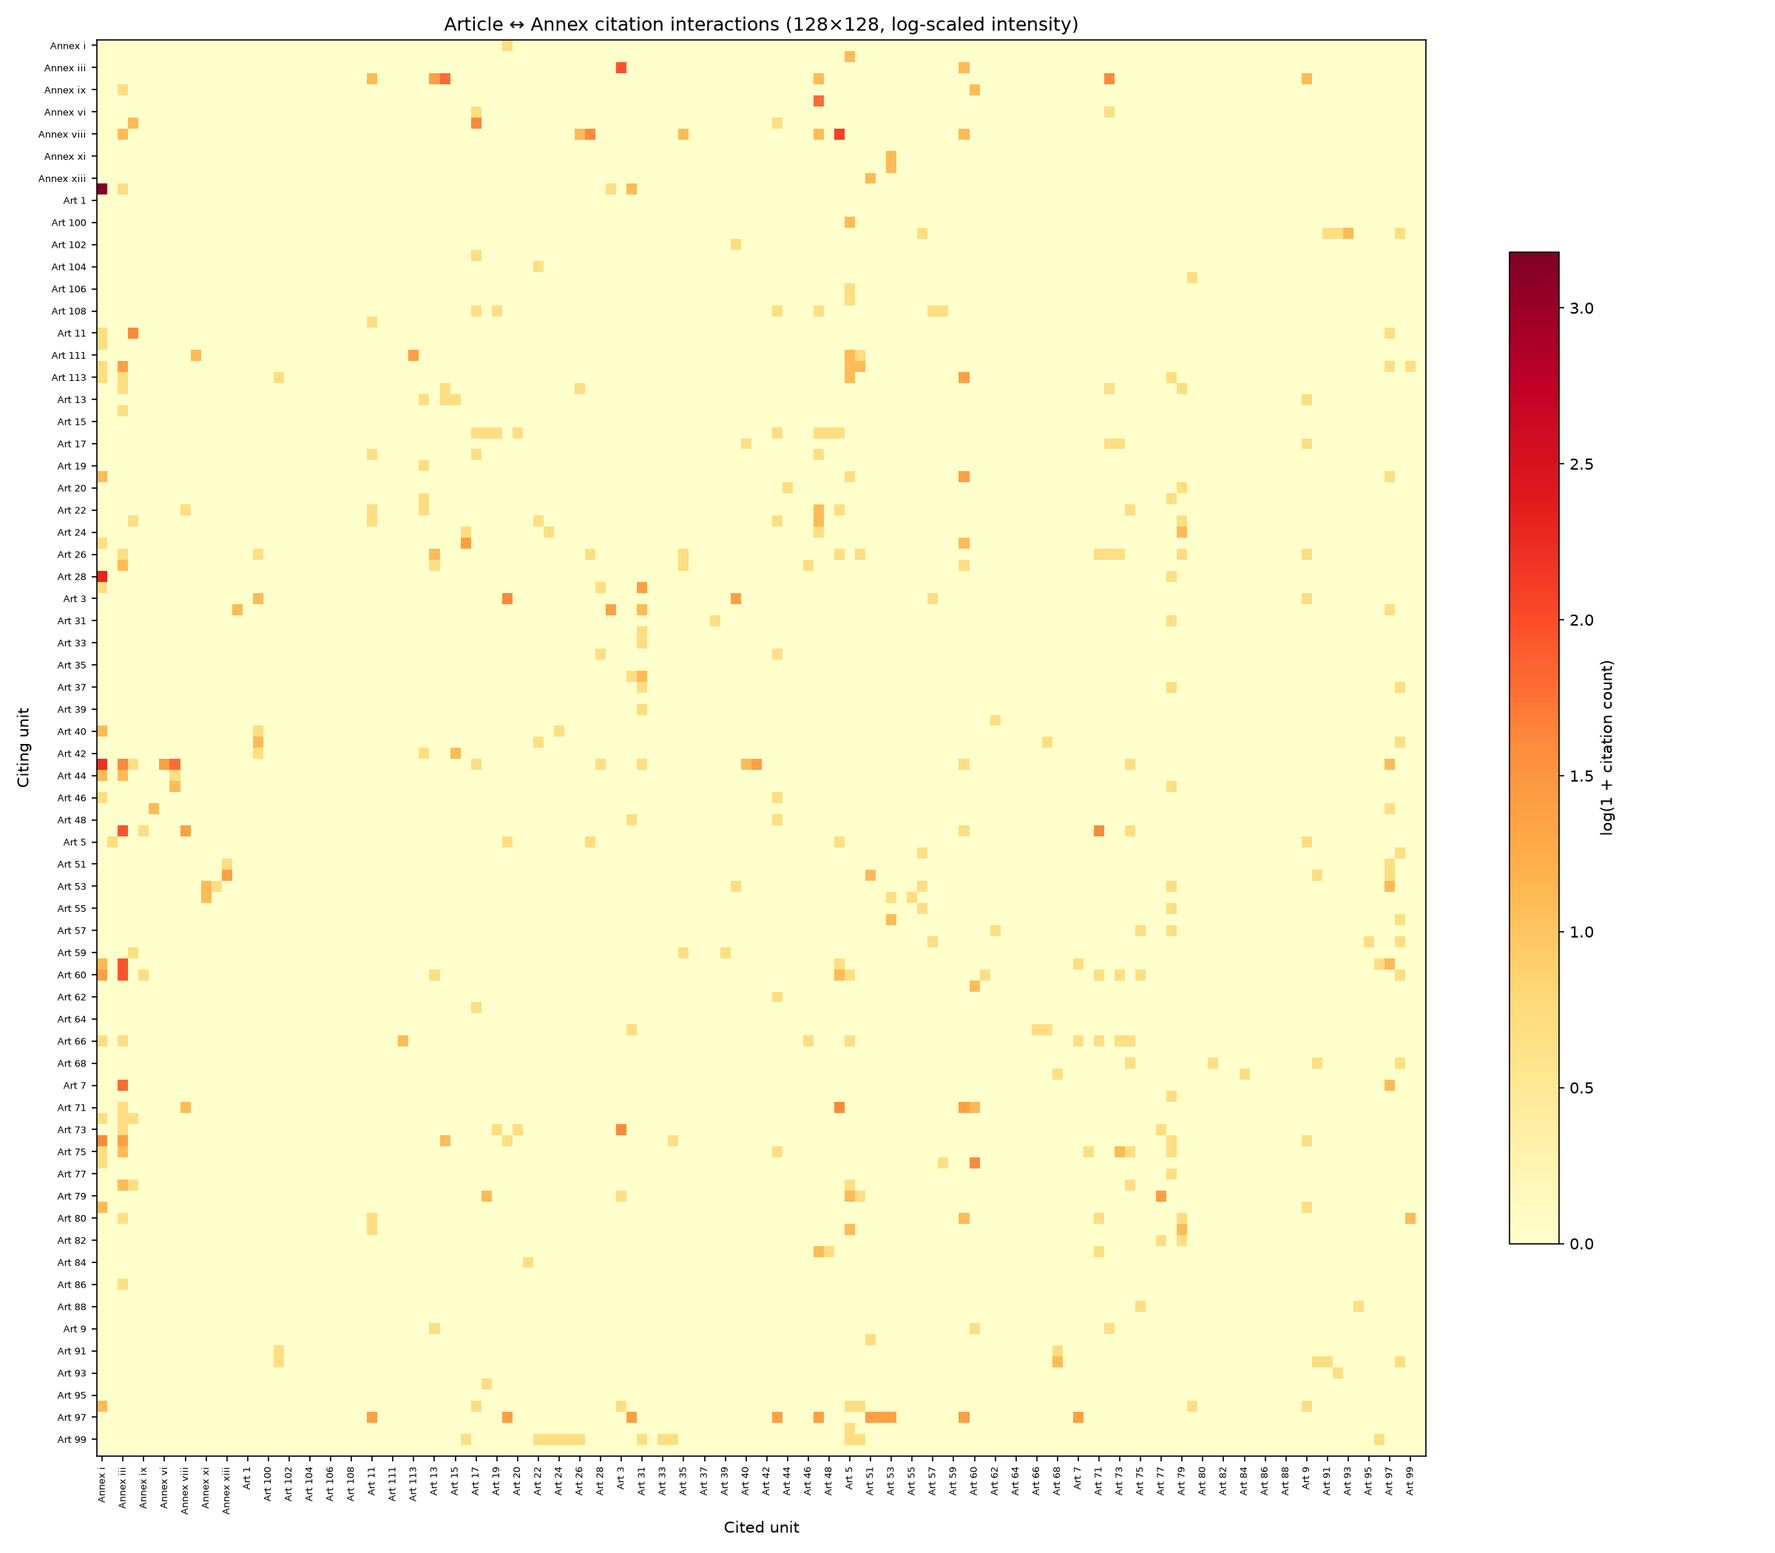
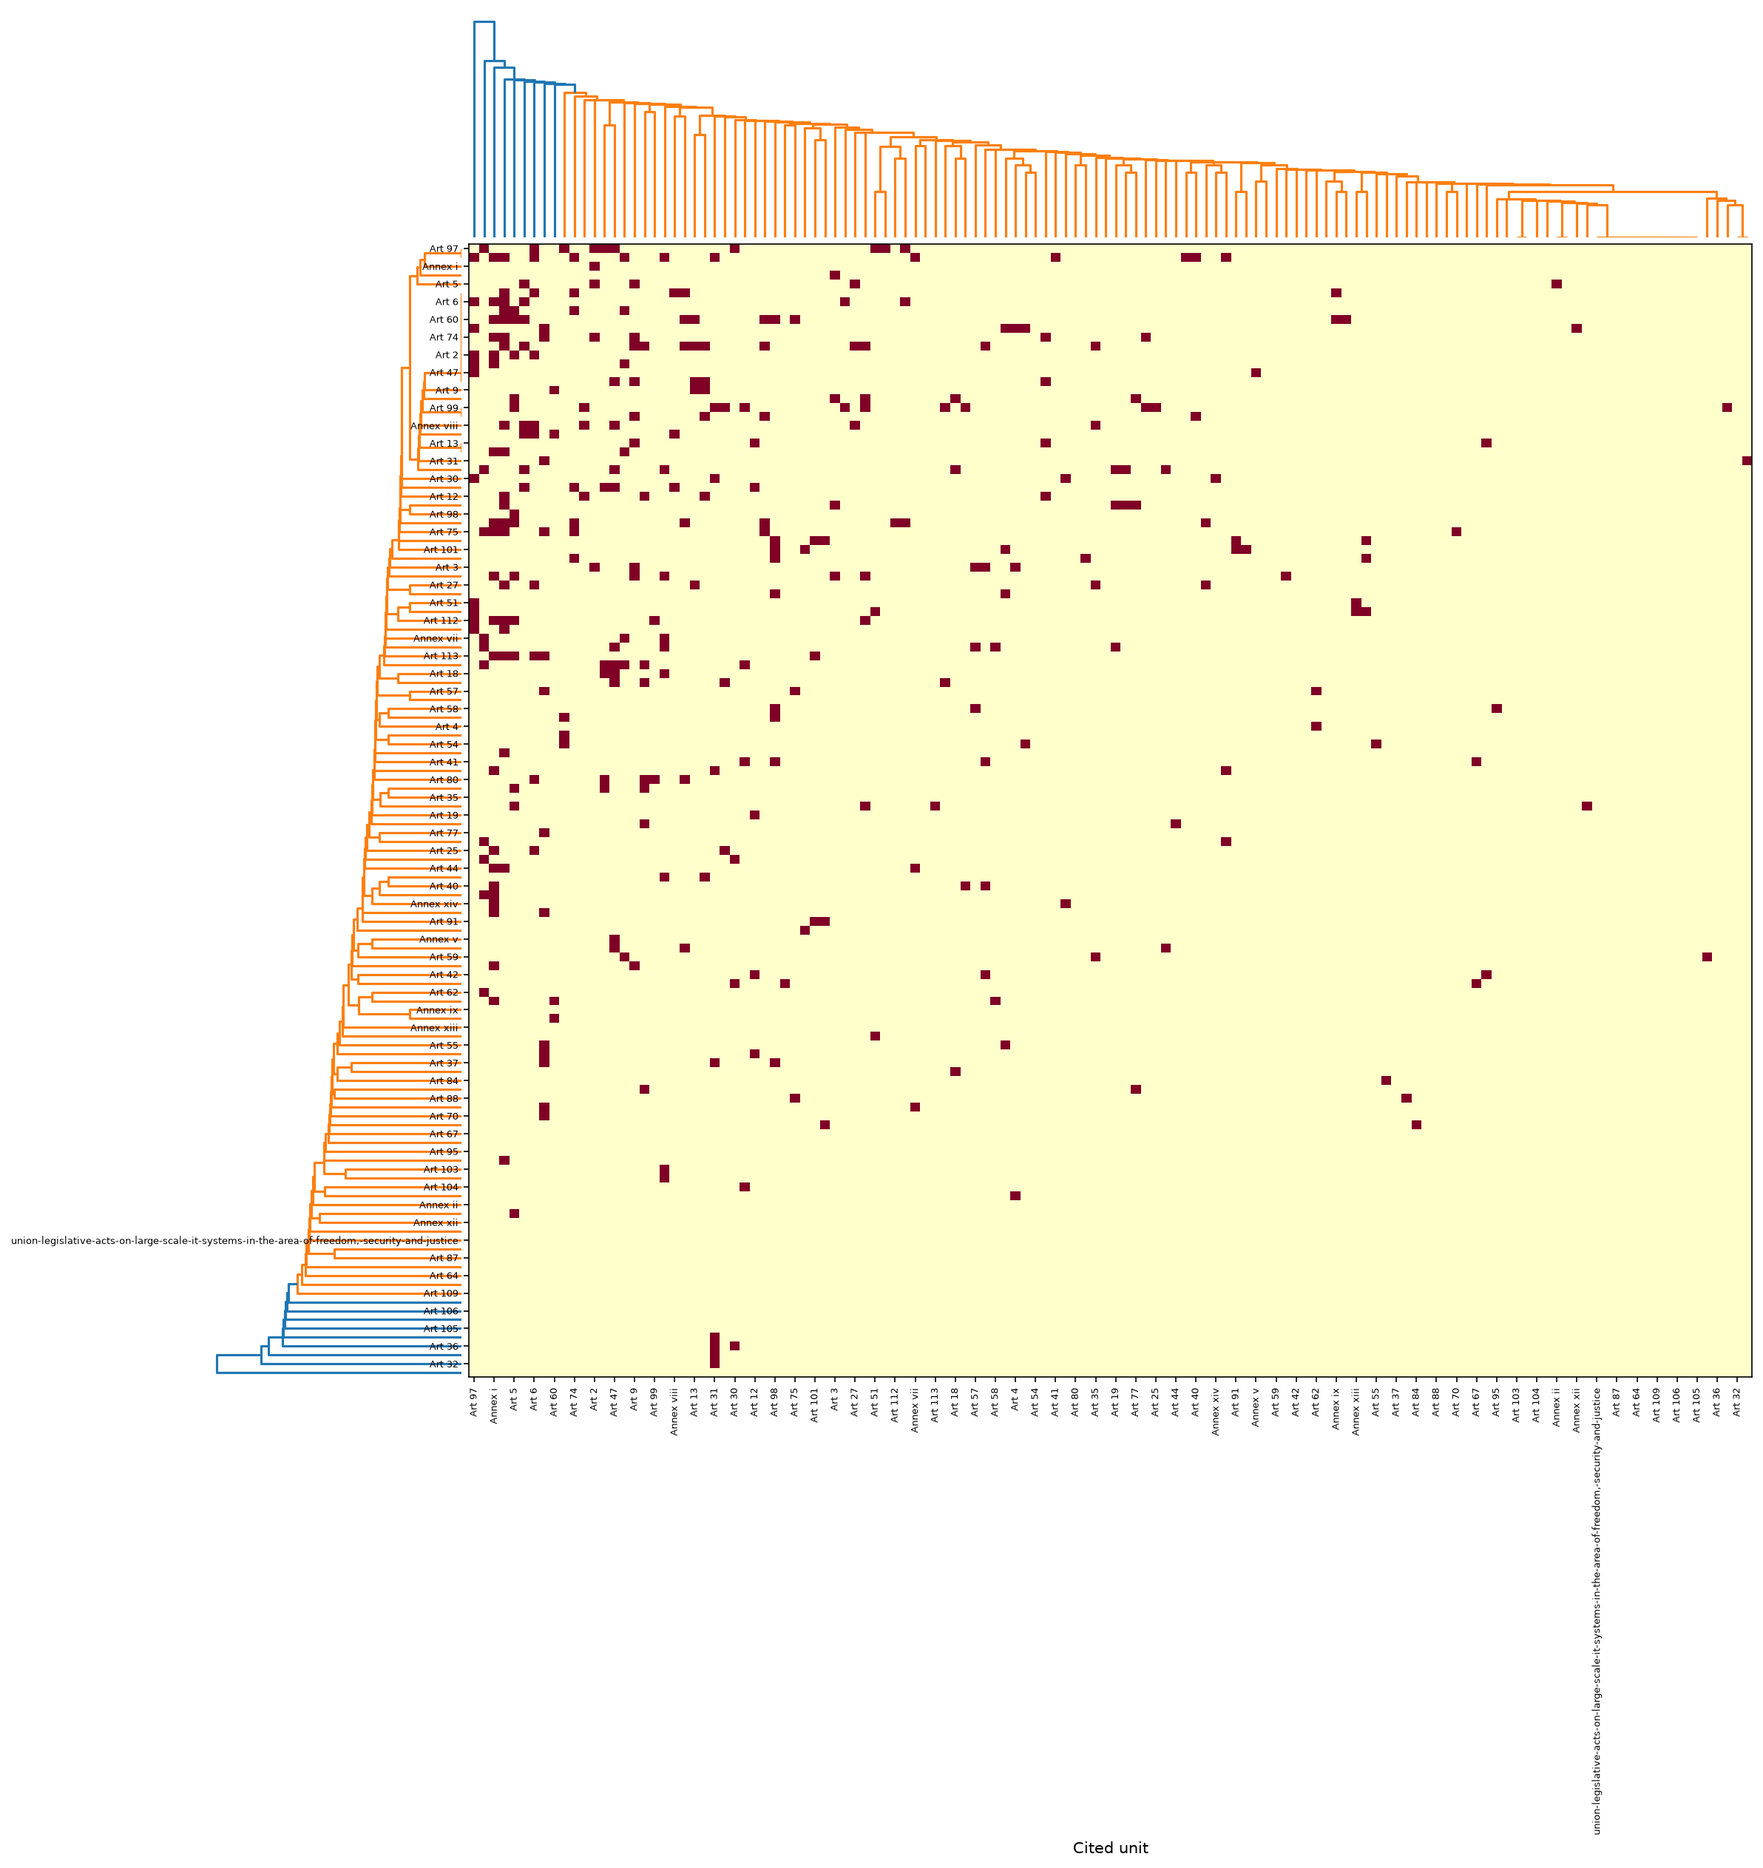
feat: dendrogram-grouped heatmap; drop t-SNE projections
- Heatmap rows/cols collated by hierarchical clustering (scipy linkage,
  average) with dendrograms on both axes — shows cluster hierarchy and
  which units cite alike; two top-level clusters visible (hub group vs
  amendment group)
- t-SNE charts removed (per decision) — Louvain + dendrograms cover the
  clustering story with no extra deps
- Louvain remains in the graph layer for phase-5 cross-legislation work

diff --git a/scripts/visualize.py b/scripts/visualize.py
@@ -157,106 +157,21 @@ def static_charts(g, out_dir: Path) -> None:
     fig.savefig(out_dir / "definitions-network.png", dpi=150)
     plt.close(fig)
 
-    # 6. t-SNE embedding projections (article + clause level)
-    embedding_chart(g, out_dir, level="article")
-    embedding_chart(g, out_dir, level="clause")
-
-    # 7. Interaction heatmaps (article + clause level)
+    # 6. Interaction heatmap with dendrogram grouping (article + clause level)
     heatmap_chart(g, out_dir, level="article")
     heatmap_chart(g, out_dir, level="clause")
 
 
-def embedding_chart(g, out_dir: Path, level: str = "article") -> None:
-    """t-SNE projection based on graph structure.
-
-    Feature vector per unit: who it references + who references it
-    (graph neighbourhood as a sparse binary vector). t-SNE places
-    semantically-related units (similar reference profiles) together.
-    UMAP deferred (needs cmake for llvmlite build); t-SNE from sklearn.
-
-    level: "article" or "clause" (paragraphs/points — more granular).
-    """
-    import numpy as np
-    from sklearn.manifold import TSNE
-
-    if level == "article":
-        unit_ids = sorted(n.id for n in g.nodes.values() if n.type in ("Article", "Annex"))
-        fname = "tsne-articles.png"
-        title = "t-SNE projection of article-level graph"
-    else:
-        unit_ids = sorted(n.id for n in g.nodes.values() if n.type in ("Paragraph", "Point", "SubPoint"))
-        fname = "tsne-clauses.png"
-        title = "t-SNE projection of clause-level graph (paragraphs/points)"
-
-    if len(unit_ids) < 10:
-        return
-    index = {nid: i for i, nid in enumerate(unit_ids)}
-    n = len(unit_ids)
-
-    if level == "article":
-        # Feature matrix: article × article adjacency (out + in neighbours)
-        feats = np.zeros((n, n))
-        for e in g.edges:
-            if e.kind != "REFERENCES":
-                continue
-            if e.src in index and e.dst in index:
-                feats[index[e.src], index[e.dst]] = 1
-                feats[index[e.dst], index[e.src]] = 1
-    else:
-        # Bipartite features: clause × (articles+annexes). A clause's profile =
-        # which articles/annexes it references + which article contains it.
-        # This gives meaningful clusters (clauses about the same topic group).
-        art_ids = sorted(a.id for a in g.nodes.values() if a.type in ("Article", "Annex"))
-        art_index = {aid: j for j, aid in enumerate(art_ids)}
-        feats = np.zeros((n, len(art_ids)))
-
-        # containment: clause -> root article
-        parent_of = {}
-        for e in g.edges:
-            if e.kind == "HAS_SUBUNIT":
-                parent_of[e.dst] = e.src
-        for i, nid in enumerate(unit_ids):
-            root = nid
-            while root in parent_of:
-                root = parent_of[root]
-            if root in art_index:
-                feats[i, art_index[root]] = 1
-
-        # references: clause -> article/annex
-        for e in g.edges:
-            if e.kind != "REFERENCES":
-                continue
-            if e.src in index and e.dst in art_index:
-                feats[index[e.src], art_index[e.dst]] = 1
-
-    perp = min(30, n - 1)
-    tsne = TSNE(n_components=2, perplexity=perp, random_state=42, init="pca")
-    coords = tsne.fit_transform(feats)
-
-    fig, ax = plt.subplots(figsize=(12, 10))
-    for nid, (x, y) in zip(unit_ids, coords):
-        is_annex = nid.startswith("annex")
-        ax.scatter(x, y, s=60 if level == "article" else 25, c="#937860" if is_annex else "#4C72B0", alpha=0.8, edgecolors="white", linewidths=0.5)
-    if level == "article":
-        for nid in ("article-5", "article-6", "article-50", "article-113", "annex-i", "annex-iii"):
-            if nid in index:
-                x, y = coords[index[nid]]
-                ax.annotate(nid.replace("article-", "Art ").replace("annex-", "Annex "), (x, y), fontsize=8, xytext=(5, 5), textcoords="offset points")
-    handles = type_legend(types=["Article", "Annex"])
-    ax.legend(handles=handles, loc="upper right", fontsize=9, framealpha=0.9)
-    ax.set_title(f"{title}\n(units with similar reference profiles cluster together)")
-    ax.axis("off")
-    fig.savefig(out_dir / fname, dpi=150)
-    plt.close(fig)
-
-
 def heatmap_chart(g, out_dir: Path, level: str = "article") -> None:
-    """Interaction heatmap: unit × unit REFERENCES matrix.
+    """Interaction heatmap: unit × unit REFERENCES matrix, grouped by
+    hierarchical clustering with dendrograms on both axes.
 
-    level: "article" (113×113) or "paragraph" (clause-level, top units).
-    Cell intensity = number of citation interactions between two units.
+    Dendrograms show the cluster hierarchy (which units cite alike) alongside
+    the collated matrix — block structure emerges from the clustering order.
     """
     import numpy as np
+    from scipy.cluster.hierarchy import dendrogram, linkage
+    from scipy.spatial.distance import pdist
 
     if level == "article":
         unit_ids = sorted(n.id for n in g.nodes.values() if n.type in ("Article", "Annex"))
@@ -292,69 +207,54 @@ def heatmap_chart(g, out_dir: Path, level: str = "article") -> None:
             print("  heatmap-clauses: not enough interactions, skipped")
             return
 
-    fig, ax = plt.subplots(figsize=(16, 14))
+    # Hierarchical clustering on the symmetric interaction profile
+    # (rows of the matrix = who each unit cites/is cited by).
+    sym = mat + mat.T
+    np.fill_diagonal(sym, sym.diagonal())  # keep self-citations
+    Z = linkage(sym, method="average", metric="euclidean")
 
-    # Louvain community grouping: reorder rows/cols by community so the
-    # block structure (clusters of heavily-citing units) becomes visible.
-    import networkx as nx
+    fig = plt.figure(figsize=(18, 16))
+    gs = fig.add_gridspec(2, 2, width_ratios=[1, 5], height_ratios=[1, 5], wspace=0.01, hspace=0.01)
 
-    cite_graph = nx.Graph()
-    for i in range(n):
-        for j in range(n):
-            if mat[i, j] > 0:
-                cite_graph.add_edge(unit_ids[i], unit_ids[j], weight=float(mat[i, j]))
-    communities = nx.community.louvain_communities(cite_graph, seed=42, weight="weight")
-    # Order: communities sorted by size desc, members sorted within
-    order: list[int] = []
-    community_bounds: list[tuple[int, int, int]] = []  # (start, end, colour_idx)
-    comm_colours = ["#4C72B0", "#DD8452", "#55A868", "#C44E52", "#8172B3", "#CCB974", "#64B5CD", "#937860"]
-    for ci, comm in enumerate(sorted(communities, key=len, reverse=True)):
-        members = sorted(m for m in comm if m in index)
-        start = len(order)
-        order.extend(index[m] for m in members)
-        community_bounds.append((start, len(order), ci))
+    # Dendrograms: top (columns) and left (rows)
+    ax_dend_top = fig.add_subplot(gs[0, 1])
+    ax_dend_left = fig.add_subplot(gs[1, 0])
+    ax_heat = fig.add_subplot(gs[1, 1])
 
-    if len(order) == n:
-        mat = mat[np.ix_(order, order)]
-        unit_ids = [unit_ids[i] for i in order]
+    def short(nid: str) -> str:
+        return nid.replace("article-", "Art ").replace("annex-", "Annex ")
 
-        im = ax.imshow(np.log1p(mat), cmap="YlOrRd", aspect="auto")
+    # Column dendrogram
+    dendrogram(Z, ax=ax_dend_top, orientation="top", no_labels=True, color_threshold=0.7 * Z[:, 2].max())
+    ax_dend_top.set_xticks([])
+    ax_dend_top.set_yticks([])
+    for spine in ax_dend_top.spines.values():
+        spine.set_visible(False)
 
-        # Ticks: short labels
-        def short(nid: str) -> str:
-            return nid.replace("article-", "Art ").replace("annex-", "Annex ").replace("annex-", "Annex ")
+    # Row dendrogram
+    dendrogram(Z, ax=ax_dend_left, orientation="left", no_labels=True, color_threshold=0.7 * Z[:, 2].max())
+    ax_dend_left.set_xticks([])
+    ax_dend_left.set_yticks([])
+    for spine in ax_dend_left.spines.values():
+        spine.set_visible(False)
 
-        step = max(1, n // 60)
-        ticks = list(range(0, n, step))
-        ax.set_xticks(ticks)
-        ax.set_yticks(ticks)
-        ax.set_xticklabels([short(unit_ids[i]) for i in ticks], rotation=90, fontsize=6)
-        ax.set_yticklabels([short(unit_ids[i]) for i in ticks], fontsize=6)
+    # Heatmap in the dendrogram's leaf order
+    leaves = dendrogram(Z, no_plot=True)["leaves"]
+    mat_ordered = mat[np.ix_(leaves, leaves)]
+    ordered_ids = [unit_ids[i] for i in leaves]
 
-        # Community blocks: coloured spans along the axes + dividers
-        for start, end, ci in community_bounds:
-            if end - start < 2:
-                continue
-            colour = comm_colours[ci % len(comm_colours)]
-            ax.axhline(start - 0.5, color="white", lw=1.2)
-            ax.axvline(start - 0.5, color="white", lw=1.2)
-            ax.add_patch(plt.Rectangle((-0.5, start - 0.5), 6, end - start, color=colour, alpha=0.55, zorder=3, clip_on=False))
-            ax.add_patch(plt.Rectangle((start - 0.5, -0.5), end - start, 6, color=colour, alpha=0.55, zorder=3, clip_on=False))
+    im = ax_heat.imshow(np.log1p(mat_ordered), cmap="YlOrRd", aspect="auto", interpolation="nearest")
 
-        # Legend: community colours
-        handles = [
-            Line2D([0], [0], marker="s", color="w", markerfacecolor=comm_colours[ci % len(comm_colours)], markersize=10,
-                   label=f"community {ci + 1} ({end - start} units)")
-            for ci, (start, end, _) in enumerate(community_bounds) if end - start >= 2
-        ]
-        ax.legend(handles=handles, loc="upper left", bbox_to_anchor=(1.01, 1), fontsize=8, framealpha=0.9, title="Louvain communities")
-
-        ax.set_xlabel("Cited unit")
-        ax.set_ylabel("Citing unit")
-        ax.set_title(f"{title} ({n}×{n}, log-scaled intensity, Louvain-grouped)")
-    else:
-        im = ax.imshow(np.log1p(mat), cmap="YlOrRd", aspect="auto")
-        ax.set_title(f"{title} ({n}×{n}, log-scaled intensity)")
+    step = max(1, n // 60)
+    ticks = list(range(0, n, step))
+    ax_heat.set_xticks(ticks)
+    ax_heat.set_yticks(ticks)
+    ax_heat.set_xticklabels([short(ordered_ids[i]) for i in ticks], rotation=90, fontsize=6)
+    ax_heat.set_yticklabels([short(ordered_ids[i]) for i in ticks], fontsize=6)
+    ax_heat.set_xlabel("Cited unit")
+    fig.savefig(out_dir / fname, dpi=150, bbox_inches="tight")
+    plt.close(fig)
+    print(f"  heatmap ({level}): {n}×{n}, dendrogram-grouped")
 
 
 LEGEND_HTML = """
@@ -448,9 +348,8 @@ def main() -> int:
 
     levels = {"all": ["article", "clause"], "article": ["article"], "clause": ["clause"]}[args.granularity]
     for level in levels:
-        embedding_chart(g, args.out, level=level)
         heatmap_chart(g, args.out, level=level)
-    print("Wrote embeddings + heatmaps to {}/".format(args.out))
+    print("Wrote heatmaps to {}/".format(args.out))
     return 0
 
 

diff --git a/docs/visualisation.md b/docs/visualisation.md
@@ -65,16 +65,17 @@ Recitals benefit most: before this, 86 of 180 recitals were isolated nodes (reci
 | `viz/article-graph.png` | Article↔Annex reference network (spring layout, **weighted edges**) | Cross-reference structure; edge width = citation count |
 | `viz/obligations-by-actor.png` | Obligations per actor (bar) | Who bears the compliance burden |
 | `viz/definitions-network.png` | Article 3 definitions → actors | Definition grounding |
-| `viz/tsne-articles.png` | **t-SNE projection** of article-level graph | Units with similar reference profiles cluster together |
-| `viz/tsne-clauses.png` | **t-SNE projection of clause-level graph** (paragraphs/points, bipartite features) | Topic clusters at clause granularity |
-| `viz/heatmap-articles.png` | **Interaction heatmap** (128×128, log-scaled, **Louvain-grouped**) | All citation interactions; rows/cols reordered by community so block structure is visible |
+| `viz/heatmap-articles.png` | **Interaction heatmap** (128×128, log-scaled, **dendrogram-grouped**) | All citation interactions; rows/cols collated by hierarchical clustering with dendrograms on both axes |
 | `viz/graph-interactive.html` | Full graph (pyvis, colour by type, **HTML legend**) | Interactive exploration |
 | `viz/article-graph.html` | Article-level subgraph (pyvis, **HTML legend**) | Focused exploration |
 
 ## Design decisions
 
+### Visualisation scope: Louvain + dendrograms only
+t-SNE/UMAP projections were **removed** (per decision) — Louvain community detection and hierarchical-clustering dendrograms cover the clustering story with no extra dependencies and exact, reproducible groupings.
+
 ### Figure legends
-All network charts carry legends: node-type colours (Article/Annex/Definition/Actor) and the edge-weight scale (1 citation → max citations).
+All network charts carry legends: node-type colours (Article/Annex/Definition/Actor) and the edge-weight scale (1 citation → max citations). The pyvis interactive HTMLs have an injected fixed-position HTML legend (pyvis has no native legend).
 
 ### Edge weights
 `REFERENCES` edges are **weighted by citation count** — how many times unit A cites unit B across the corpus. Weight drives:
@@ -84,19 +85,13 @@ All network charts carry legends: node-type colours (Article/Annex/Definition/Ac
 
 Other edge kinds (HAS_SUBUNIT, IMPOSES_ON, INTERPRETS) are structural and unweighted.
 
-### Embeddings (t-SNE now, UMAP deferred)
-- **t-SNE** (sklearn) projects units by their **graph neighbourhood**: feature vector = who a unit references + who references it. Units with similar reference profiles cluster together — topic groups emerge without any text embeddings.
-- **Clause-level t-SNE** uses **bipartite features** (clause × referenced/parent articles) since clauses rarely cite each other directly.
-- **UMAP deferred**: `umap-learn` → `llvmlite` needs CMake to build on this Python/platform combo. Install `cmake` (`brew install cmake`) and `uv add --group dev umap-learn` to add it later — UMAP preserves global structure better than t-SNE.
-- Phase-3 option: swap graph-neighbourhood features for **text embeddings** (sentence-transformers) to compare structural vs semantic clustering.
+### Heatmap: dendrogram grouping (replaces Louvain blocks)
+The heatmap rows/columns are **collated by hierarchical clustering** (scipy `linkage`, average method, on the symmetric citation profile) with **dendrograms on both axes**. This shows:
+- **Which units cite alike** — the tree groups articles with similar citation profiles (the conformity-assessment cluster, the enforcement cluster, the amendment cluster)
+- **Cluster hierarchy** — unlike flat Louvain blocks, the dendrogram shows sub-clusters and their merge distances
+- The two top-level clusters visible in the dendrogram: the **hub group** (Art 97, Annex I, Art 5/6 — heavily-citing provisions) and the **amendment group** (Art 102–110, which only cite Art 36)
 
-### Louvain grouping (heatmap)
-The heatmap rows/columns are **reordered by Louvain community** (`nx.community.louvain_communities`, weighted by citation count). Communities appear as coloured blocks along the axes with a legend — clusters of articles that cite each other heavily (e.g. the conformity-assessment cluster, the enforcement cluster) become visible as off-diagonal blocks instead of a noisy matrix. Louvain is built into NetworkX — no extra deps.
-
-### Granularity option
-`--granularity article|clause|all` (default `all`):
-- **article**: 113 Articles + 15 Annexes
-- **clause**: 662 Paragraphs + 340 Points + 247 Sub-points (t-SNE uses bipartite features; heatmap filters to units with interactions)
+Louvain remains available in the graph layer (`nx.community.louvain_communities`) for the phase-5 cross-legislation work; the heatmap now uses dendrograms for ordering.
 
 ## Phase 5 preview (cross-legislation)
 
